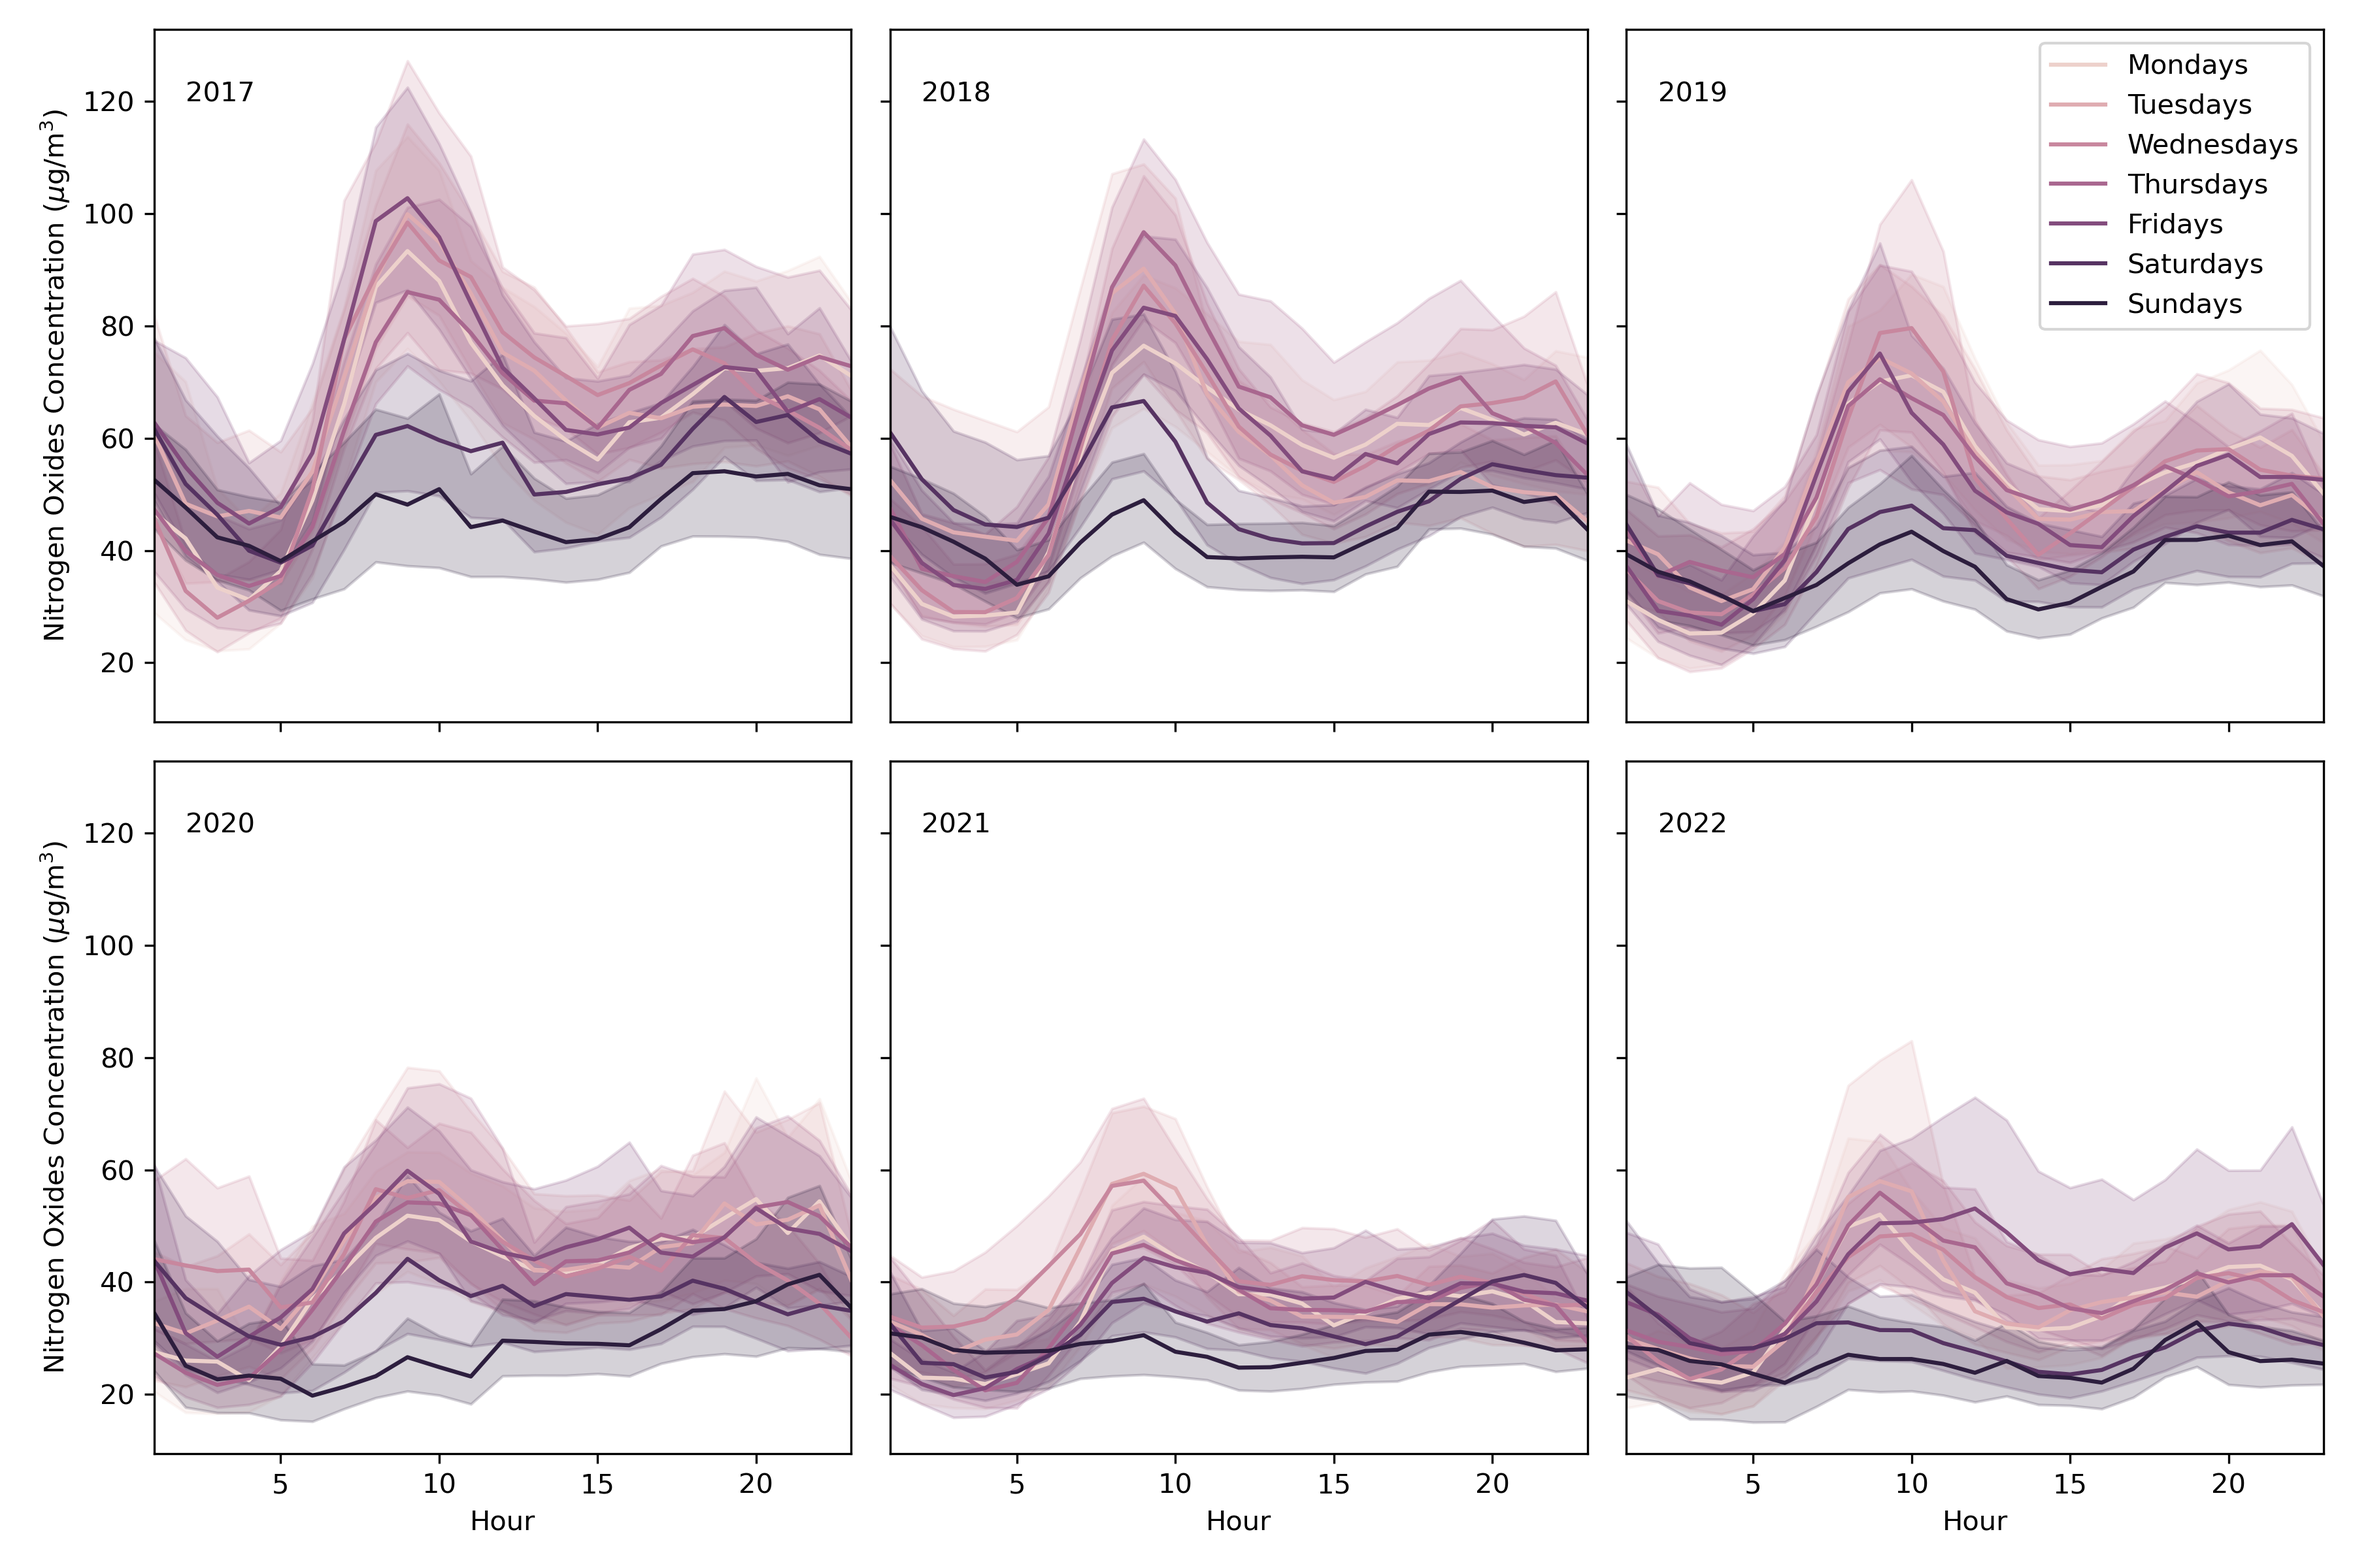
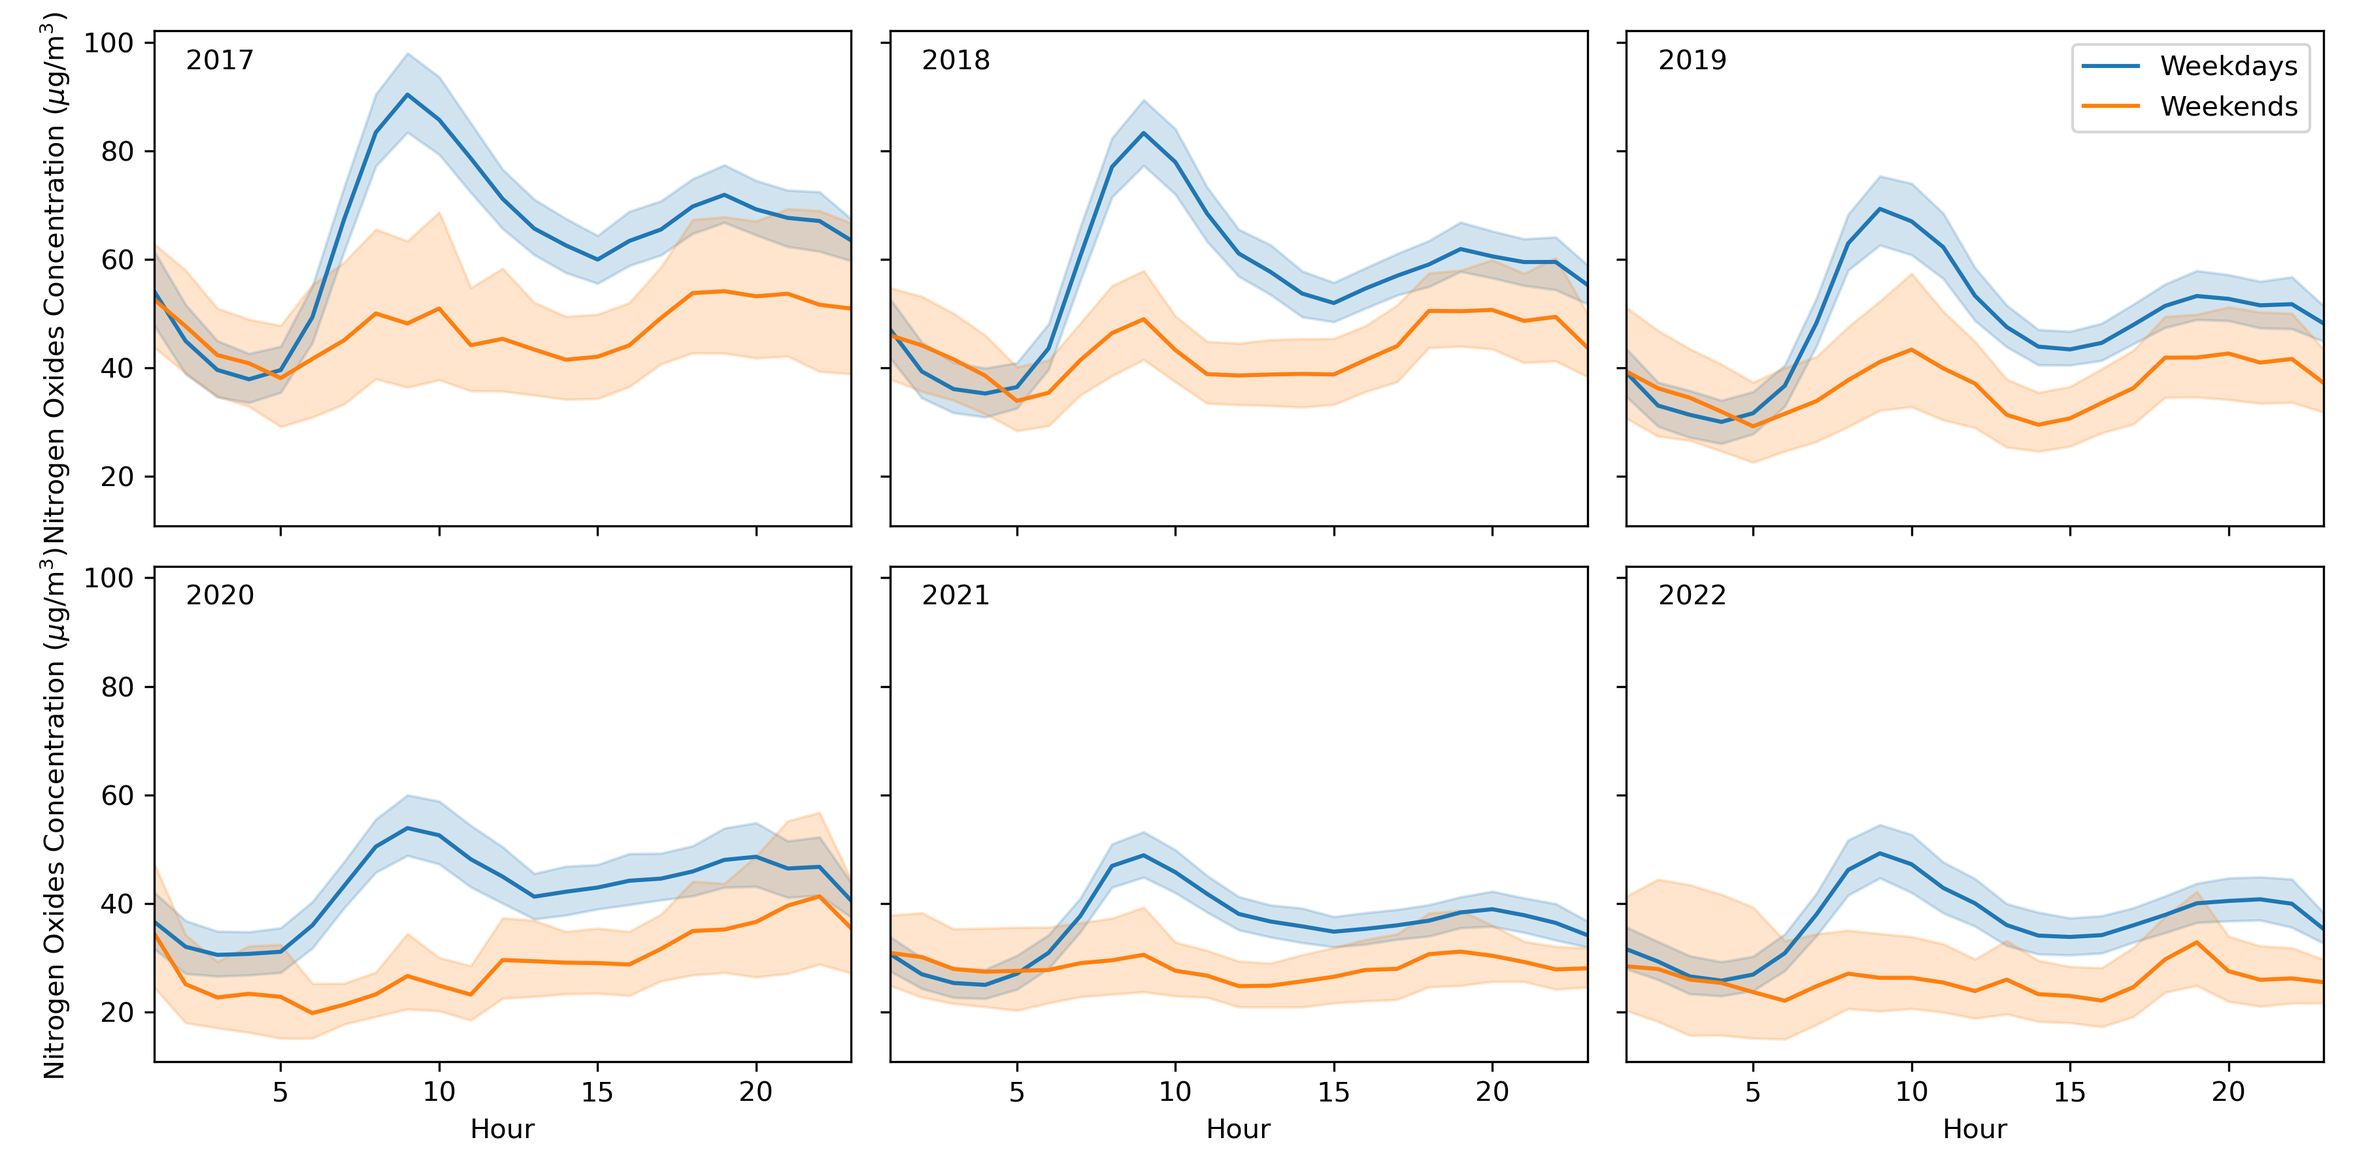
upload more

Changed region(s): [[0.0, 0.0, 0.9956, 0.5289], [0.0, 0.4978, 0.9956, 0.9644]]

diff --git a/Plotting.py b/Plotting.py
@@ -2,7 +2,7 @@ import pandas as pd
 import matplotlib.pyplot as plt
 import seaborn as sns
 import numpy as np
-
+import scipy as sp
 
 def get_data():
     df = pd.read_csv('AllData.csv', header=0)
@@ -19,6 +19,10 @@ def add_extra_info(df):
     df['Date'] = df.DateTime.dt.date
     df['Month'] = df.DateTime.dt.month
     df['Day'] = df.DateTime.dt.day
+    df['Weekend'] = False
+    df.loc[df['Weekday'] == 6, 'Weekend'] = True
+    df.loc[df['Weekday'] == 7, 'Weekend'] = True
+    print(df)
     return df
 
 
@@ -53,19 +57,20 @@ def days_after_first_monday(df):
 
 
 def plot1(df):
-    fig, axs = plt.subplots(nrows=2, ncols=3, figsize=(12, 8), sharex='all', sharey='all')
+    fig, axs = plt.subplots(nrows=2, ncols=3, figsize=(12, 6), sharex='all', sharey='all')
     axs = axs.flatten()
     for i, ax in enumerate(axs):
         df2 = df[df['Year'] == i + 2017]
-        sns.lineplot(data=df2, x='Hour', y='Nitrogen oxides as nitrogen dioxide', hue='Weekday', ax=ax)
+        sns.lineplot(data=df2.loc[~df['Weekend']], x='Hour', y='Nitrogen oxides as nitrogen dioxide',
+                     ax=ax, label='Weekdays')
+        sns.lineplot(data=df2.loc[df['Weekend']], x='Hour', y='Nitrogen oxides as nitrogen dioxide',
+                     ax=ax, label='Weekends')
         ax.set_ylabel(fr'Nitrogen Oxides Concentration ($\mu$g/m$^3$)')
-        ax.text(2, 120, f'{i + 2017}')
+        ax.text(2, 95, f'{i + 2017}')
         ax.set_xlim(1, 23)
+        ax.legend()
         if i != 2:
             ax.get_legend().remove()
-        else:
-            handles, label = ax.get_legend_handles_labels()
-            ax.legend(handles, ['Mondays', 'Tuesdays', 'Wednesdays', 'Thursdays', 'Fridays', 'Saturdays', 'Sundays'])
 
     #fig.suptitle('Hourly concentrations of Sulphur dioxide sorted by year', y=0.99)
     fig.tight_layout()
@@ -77,14 +82,56 @@ def plot2(df):
     axs = axs.flatten()
     values = ['PM10 particulate matter (Hourly measured)', 'PM2.5 particulate matter (Hourly measured)',
               'Ozone', 'Nitrogen oxides as nitrogen dioxide']
-    names = ['PM10', 'PM2.5', 'Ozone', 'NOx']
+    names = [r'PM$_{10}$', r'PM$_{2.5}$', 'Ozone', r'NO$_x$']
     for i, ax in enumerate(axs):
+        start, stop, end = 2008, 2019, 2023
         df_temp = df
-        sns.boxplot(data=df_temp, x='Year', y=values[i], ax=ax, showfliers=False, color='#52acc8')
+        q = sns.lineplot(data=df_temp, x='Year', y=values[i], ax=ax, color='#52acc8', errorbar='sd')
+        bottom, top = ax.get_ylim()
+        bottom = 0 if bottom <= 0 else bottom
+        ax.fill_between((start, stop), (bottom, bottom), (top, top), alpha=0.1, color='grey', zorder=1.99)
+        ax.fill_between((stop, end), (bottom, bottom), (top, top), alpha=0.2, color='grey', zorder=1.99)
+        ax.set_ylim(bottom, top)
+
+        ydata = q.get_lines()[-1].get_ydata()
+        xdata = q.get_lines()[-1].get_xdata()
+        ydata1 = ydata[:list(xdata).index(start) + 1]
+        ydata2 = ydata[list(xdata).index(start):list(xdata).index(stop)+1]
+        ydata3 = ydata[list(xdata).index(stop):]
+        xdata1 = xdata[:list(xdata).index(start) + 1]
+        xdata2 = xdata[list(xdata).index(start):list(xdata).index(stop)+1]
+        xdata3 = xdata[list(xdata).index(stop):]
+        a1, b1 = np.polyfit(xdata1, ydata1, 1)
+        a2, b2 = np.polyfit(xdata2, ydata2, 1)
+        a3, b3 = np.polyfit(xdata3, ydata3, 1)
+        ax.plot(xdata1, a1 * xdata1 + b1, label='Pre LEZ', ls='-.')
+        ax.plot(xdata2, a2 * xdata2 + b2, label='LEZ', ls='-.')
+        ax.plot(xdata3, a3 * xdata3 + b3, label='ULEZ', ls='-.')
+        ax.text(1998.5, bottom + (top - bottom) / 20, f'm = {a1.round(2)}', fontsize=8)
+        ax.text(2012, bottom + (top - bottom) / 20, f'm = {a2.round(2)}', fontsize=8)
+        ax.text(2019.3, bottom + (top - bottom) / 20, f'm = {a3.round(2)}', fontsize=8)
+        ax.set_xlim(1992, 2023)
+
+        if i == 1:
+            first, last = ydata[list(xdata).index(start)], ydata[list(xdata).index(start+5)]
+            ydata2[1] = first + (last - first) / 5
+            ydata2[2] = first + 2 * (last - first) / 5
+            ydata2[3] = first + 3 * (last - first) / 5
+            ydata2[4] = first + 4 * (last - first) / 5
+            a2, b2 = np.polyfit(xdata2, ydata2, 1)
+            ax.plot(xdata2, a2 * xdata2 + b2, color='C1', ls=':')
+            ax.text(2012, bottom + (top - bottom) / 40, f'm = {a2.round(2)}', fontsize=8, color='grey')
+            ax.set_xlim(1998, 2023)
+
+        if i == 3:
+            ax.legend(loc='upper right')
+
         ax.set_ylabel(fr'{names[i]} Concentration ($\mu$g/m$^3$)')
         ax.locator_params(axis='x', nbins=17)
         ax.tick_params(axis='x', rotation=45)
         ax.xaxis.set_tick_params(labelbottom=True)
+
+
     fig.tight_layout(pad=2)
     #fig.suptitle('Box plots of the concentrations of atmospheric pollutants by year', y=0.99)
     plt.savefig('Figure 2.png', dpi=300)
@@ -134,7 +181,7 @@ def main():
     main_df = add_extra_info(get_data())
 
     plot1(main_df)
-    plot2(main_df)
+    #plot2(main_df)
 
     plt.show()
 
